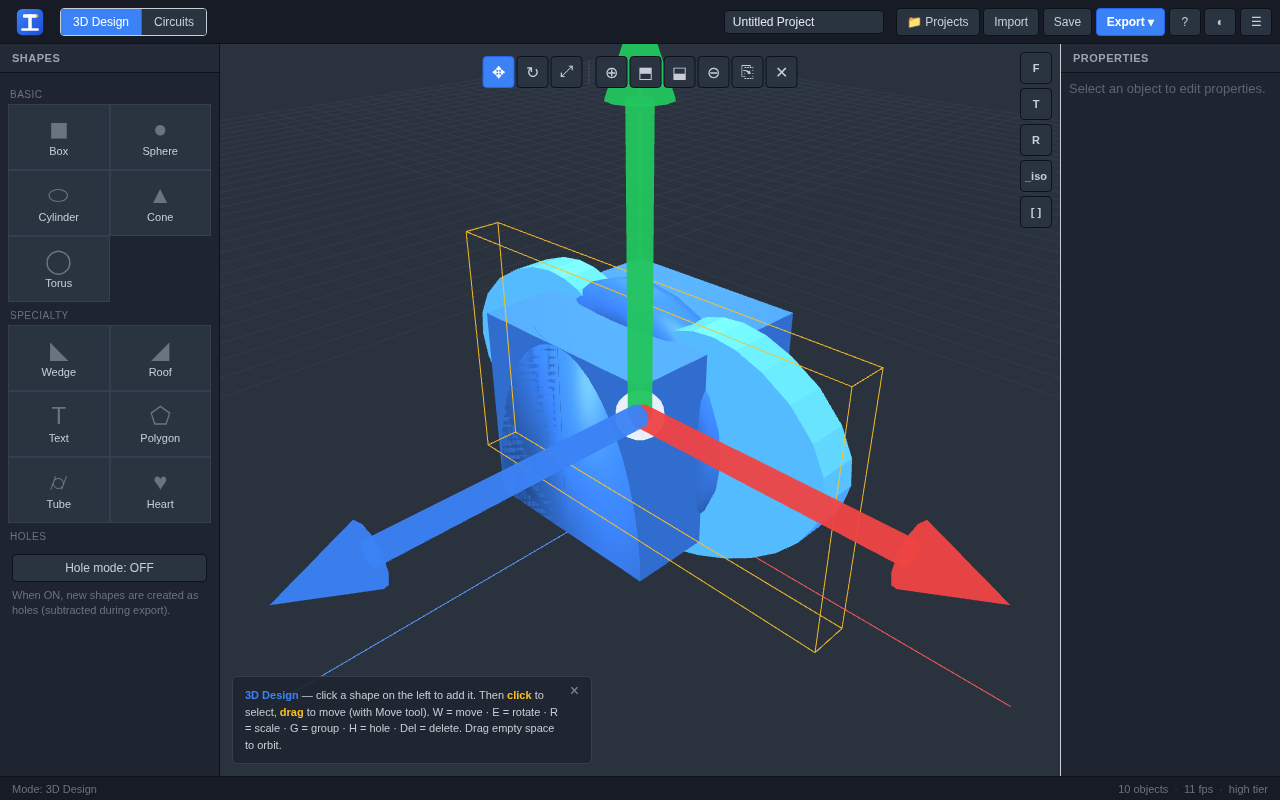
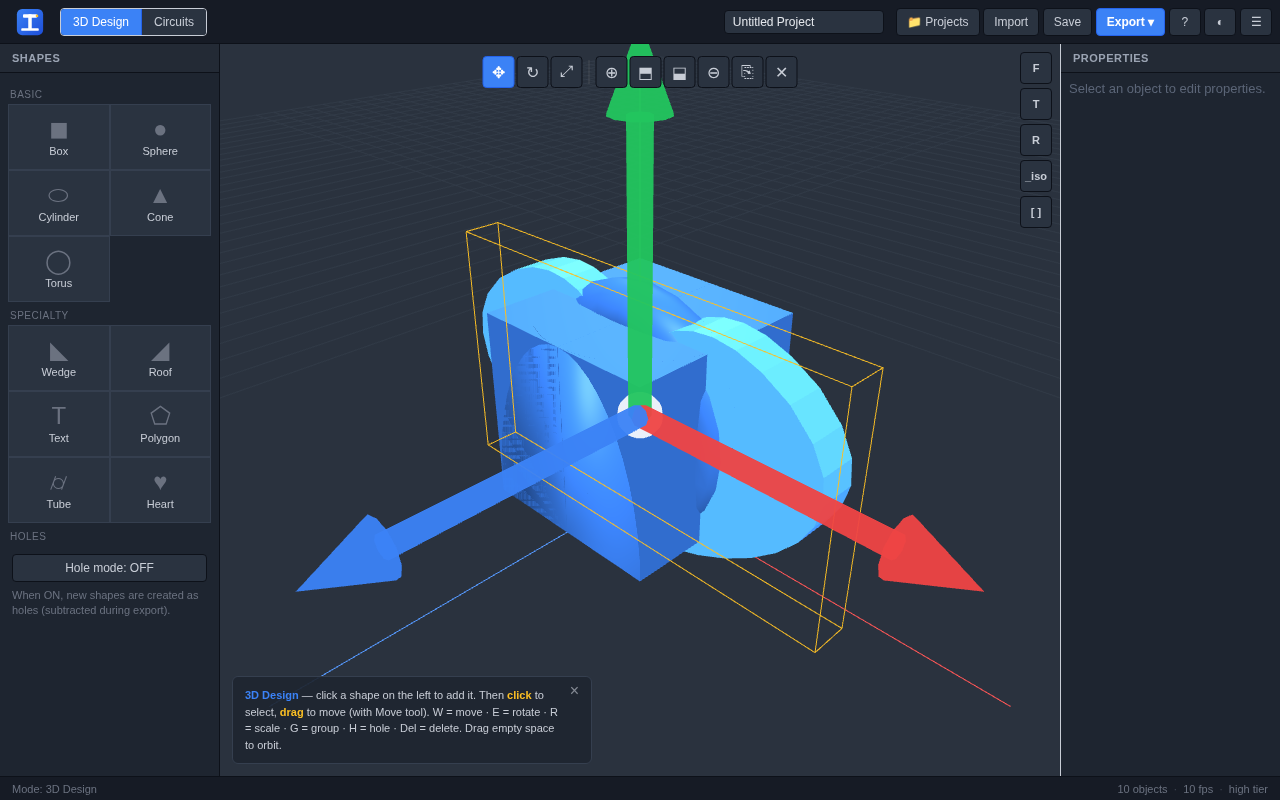
fe05a376-22e9-4b43-a7e4-fbf9126a8a59

diff --git a/public/js/mode-3d.js b/public/js/mode-3d.js
@@ -397,9 +397,10 @@
         var dy = clientY - self._pointerDown.y;
         if (dx * dx + dy * dy > 16) {
           self._pointerMoved = true;
-          if (self._dragCandidate && !self._dragging) {
+          // Start dragging if we have either an object candidate OR an active gizmo axis
+          if ((self._dragCandidate || self._activeAxis) && !self._dragging) {
             self._dragging = true;
-            global.ForgeCAD.ui.status('Dragging — ' + self.tool);
+            global.ForgeCAD.ui.status('Dragging — ' + self.tool + (self._activeAxis ? ' (' + self._activeAxis.toUpperCase() + ' axis)' : ''));
           }
           if (self._dragging) {
             self._performDrag(clientX, clientY);
@@ -707,9 +708,10 @@
     // Selection logic lives there so drag and click share the same raycast path.
 
     _buildGizmo: function () {
-      // Build 3 arrows (X red, Y green, Z blue) plus small spheres at the tips
-      // for easy raycasting. Each arrow is a Group containing a cylinder (shaft)
-      // and a cone (head), with a transparent hit sphere at the tip.
+      // Build 3 arrows (X red, Y green, Z blue). Each arrow is a Group containing
+      // a cylinder (shaft), a cone (head), and an invisible cylindrical hit area
+      // covering the full length for easy raycasting.
+      // The gizmo is built at unit scale and resized in _updateSelectionVisual.
       var gizmo = new THREE.Group();
       gizmo.name = '__gizmo__';
       var axes = [
@@ -717,15 +719,15 @@
         { dir: 'y', color: 0x22c55e, rot: { x: 0, y: 0, z: 0 } },
         { dir: 'z', color: 0x3b82f6, rot: { x: Math.PI / 2, y: 0, z: 0 } }
       ];
-      var shaftLen = 30;
-      var shaftRad = 1.2;
-      var headLen = 8;
-      var headRad = 3;
+      var shaftLen = 1.0;   // unit length; gizmo scaled per-selection
+      var shaftRad = 0.04;
+      var headLen = 0.25;
+      var headRad = 0.1;
       for (var i = 0; i < axes.length; i++) {
         var a = axes[i];
         var group = new THREE.Group();
         group.userData.axis = a.dir;
-        // Shaft (cylinder along +Y, then rotated to axis)
+        // Shaft
         var shaftGeo = new THREE.CylinderGeometry(shaftRad, shaftRad, shaftLen, 8);
         var shaftMat = new THREE.MeshBasicMaterial({ color: a.color, depthTest: false, transparent: true, opacity: 0.95 });
         var shaft = new THREE.Mesh(shaftGeo, shaftMat);
@@ -739,11 +741,12 @@
         head.position.y = shaftLen + headLen / 2;
         head.renderOrder = 1000;
         group.add(head);
-        // Invisible hit sphere at the tip (for easy raycasting)
-        var hitGeo = new THREE.SphereGeometry(headLen, 8, 8);
+        // Invisible hit cylinder covering full arrow length (for easy raycasting)
+        var totalLen = shaftLen + headLen;
+        var hitGeo = new THREE.CylinderGeometry(headRad * 1.5, headRad * 1.5, totalLen, 8);
         var hitMat = new THREE.MeshBasicMaterial({ visible: false });
         var hit = new THREE.Mesh(hitGeo, hitMat);
-        hit.position.y = shaftLen + headLen / 2;
+        hit.position.y = totalLen / 2;
         hit.userData.axis = a.dir;
         hit.userData.isGizmoHandle = true;
         group.add(hit);
@@ -752,7 +755,7 @@
         gizmo.add(group);
       }
       // Center sphere (origin marker)
-      var centerGeo = new THREE.SphereGeometry(2.5, 12, 12);
+      var centerGeo = new THREE.SphereGeometry(0.08, 12, 12);
       var centerMat = new THREE.MeshBasicMaterial({ color: 0xffffff, depthTest: false, transparent: true, opacity: 0.9 });
       var center = new THREE.Mesh(centerGeo, centerMat);
       center.renderOrder = 1000;
@@ -817,6 +820,13 @@
         // Position gizmo at selection center (only for single selection + move tool)
         if (this.selected.length === 1 && this.tool === 'move') {
           this._gizmo.position.copy(center);
+          // Scale gizmo to ~60% of the selection's largest dimension
+          // (so arrows extend just past the object edge)
+          var maxDim = Math.max(size.x, size.y, size.z);
+          var gizmoScale = maxDim * 0.6;
+          // Don't let it get too tiny or huge
+          gizmoScale = Math.max(5, Math.min(80, gizmoScale));
+          this._gizmo.scale.set(gizmoScale, gizmoScale, gizmoScale);
           this._gizmo.visible = true;
         } else {
           this._gizmo.visible = false;

diff --git a/public/js/mode-circuits.js b/public/js/mode-circuits.js
@@ -778,6 +778,7 @@
           bodies.push(makeLine(-8, -h/3, -8, h/3));
           bodies.push(makeLine(8, -h/2, 8, h/2));
           bodies.push(makeText(0, -h/2 - 4, '+', '#000'));
+          bodies.push(makeText(0, h + 11, (comp.props.voltage || 5) + 'V', '#fbbf24', 9));
           break;
         case 'solarcell':
           bodies.push(makeRect(w, h, '#1e40af'));
@@ -813,6 +814,10 @@
             bodies.push(makeLine(zx + w/12, -h/3, zx + w/6, h/3));
             zx += w/6;
           }
+          // Show resistance value below the resistor
+          var rVal = comp.props.resistance || 0;
+          var rStr = rVal >= 1000 ? (rVal / 1000) + 'k' : String(rVal);
+          bodies.push(makeText(0, h + 11, rStr + 'Ω', '#fbbf24', 9));
           break;
         case 'inductor':
           bodies.push(makeRect(w, h, '#0e7490'));
@@ -831,6 +836,7 @@
           bodies.push(makeRect(w, h, '#0891b2'));
           bodies.push(makeLine(-w/6, -h/2, -w/6, h/2));
           bodies.push(makeLine(w/6, -h/2, w/6, h/2));
+          bodies.push(makeText(0, h + 11, (comp.props.capacitance || 100) + 'μF', '#22d3ee', 9));
           break;
         case 'button':
           bodies.push(makeRect(w, h, '#1f2937'));

diff --git a/public/js/main.js b/public/js/main.js
@@ -666,7 +666,7 @@
     },
 
     _aboutHTML: function () {
-      return '<p><strong>ForgeCAD</strong> v1.0 — a lightweight Tinkercad-inspired 3D modeler & circuit simulator, designed to run on extremely low-end devices (under 1GB RAM) and old browsers (down to Safari 7 / 2013).</p>' +
+      return '<p><strong>ForgeCAD</strong> v1.0 — a 3D modeler & circuit simulator that runs in any browser.</p>' +
              '<p style="margin-top:8px;"><strong>Features:</strong></p>' +
              '<ul style="margin-left:24px;line-height:1.6;">' +
              '<li>3D Design: 11 primitive shapes (box, sphere, cylinder, cone, torus, wedge, roof, text, polygon, tube, heart)</li>' +

diff --git a/public/index.html b/public/index.html
@@ -5,7 +5,7 @@
 <meta http-equiv="X-UA-Compatible" content="IE=edge">
 <meta name="viewport" content="width=device-width, initial-scale=1, maximum-scale=1, user-scalable=no, viewport-fit=cover">
 <meta name="theme-color" content="#1e2530">
-<title>ForgeCAD — Low-End 3D Modeler</title>
+<title>ForgeCAD — 3D Modeler & Circuit Simulator</title>
 <link rel="stylesheet" href="css/styles.css">
 <!-- Polyfills must load first to shim missing APIs (Safari 7 floor) -->
 <script src="js/polyfills.js"></script>

diff --git a/worklog.md b/worklog.md
@@ -178,3 +178,24 @@ Stage Summary:
   5. ✓ Wire deletion: click to select, Delete key or button to remove
   6. ✓ Power-on animations: buzzer pulses, motor spins, 7-seg shows digit, LED/lamp glow
   7. ✓ Multimeter uses proper nodal analysis (series/parallel/voltage divider) instead of summing all resistances
+
+---
+Task ID: fixes-7
+Agent: main
+Task: Fix gizmo size + drag, show resistance values, remove "Low-End 3D Modeler" text
+
+Work Log:
+- Fixed gizmo size: was built at fixed 38-unit scale (shaft 30 + head 8), making it nearly 2x the size of a 20-unit object. Rewrote _buildGizmo to use unit-scale geometry (shaftLen=1.0, shaftRad=0.04, headLen=0.25, headRad=0.1). Now _updateSelectionVisual scales the gizmo to 60% of the selection's largest dimension (clamped 5-80 units). For a 20-unit box, gizmo is now ~12.6 units (ratio 0.88) instead of 38 (ratio 1.9).
+- Fixed gizmo drag not working: onMove checked `self._dragCandidate` to start dragging, but gizmo clicks set `_activeAxis` instead of `_dragCandidate`. Changed condition to `(self._dragCandidate || self._activeAxis)` so gizmo drags trigger properly.
+- Improved gizmo hit area: was a small sphere at the tip only. Now an invisible cylinder covering the full arrow length (radius 1.5x head radius) for easier clicking.
+- Added resistance value display on resistor components: shows "220Ω" (or "10k" for >=1000) in yellow below the resistor body. Also added voltage display on battery ("5V"), capacitance on capacitor ("100μF").
+- Removed "Low-End 3D Modeler" from: page <title> (now "ForgeCAD — 3D Modeler & Circuit Simulator"), about modal text (now "a 3D modeler & circuit simulator that runs in any browser").
+- All tests pass: title updated, gizmo ratio 0.88 (reasonable), gizmo drag moves object 22 units on X, resistor shows "220Ω", battery shows "5V".
+- Regression: smoke test 0 errors.
+- Screenshot: 45-gizmo-fixed.
+
+Stage Summary:
+- All 4 user-reported issues fixed:
+  1. ✓ Gizmo is now properly sized (88% of object, was 190%) and drag works (object moves along the clicked axis)
+  2. ✓ Resistance values shown on resistor bodies (e.g., "220Ω", "10k"), voltage on batteries, capacitance on capacitors
+  3. ✓ "Low-End 3D Modeler" text removed from page title and about modal
